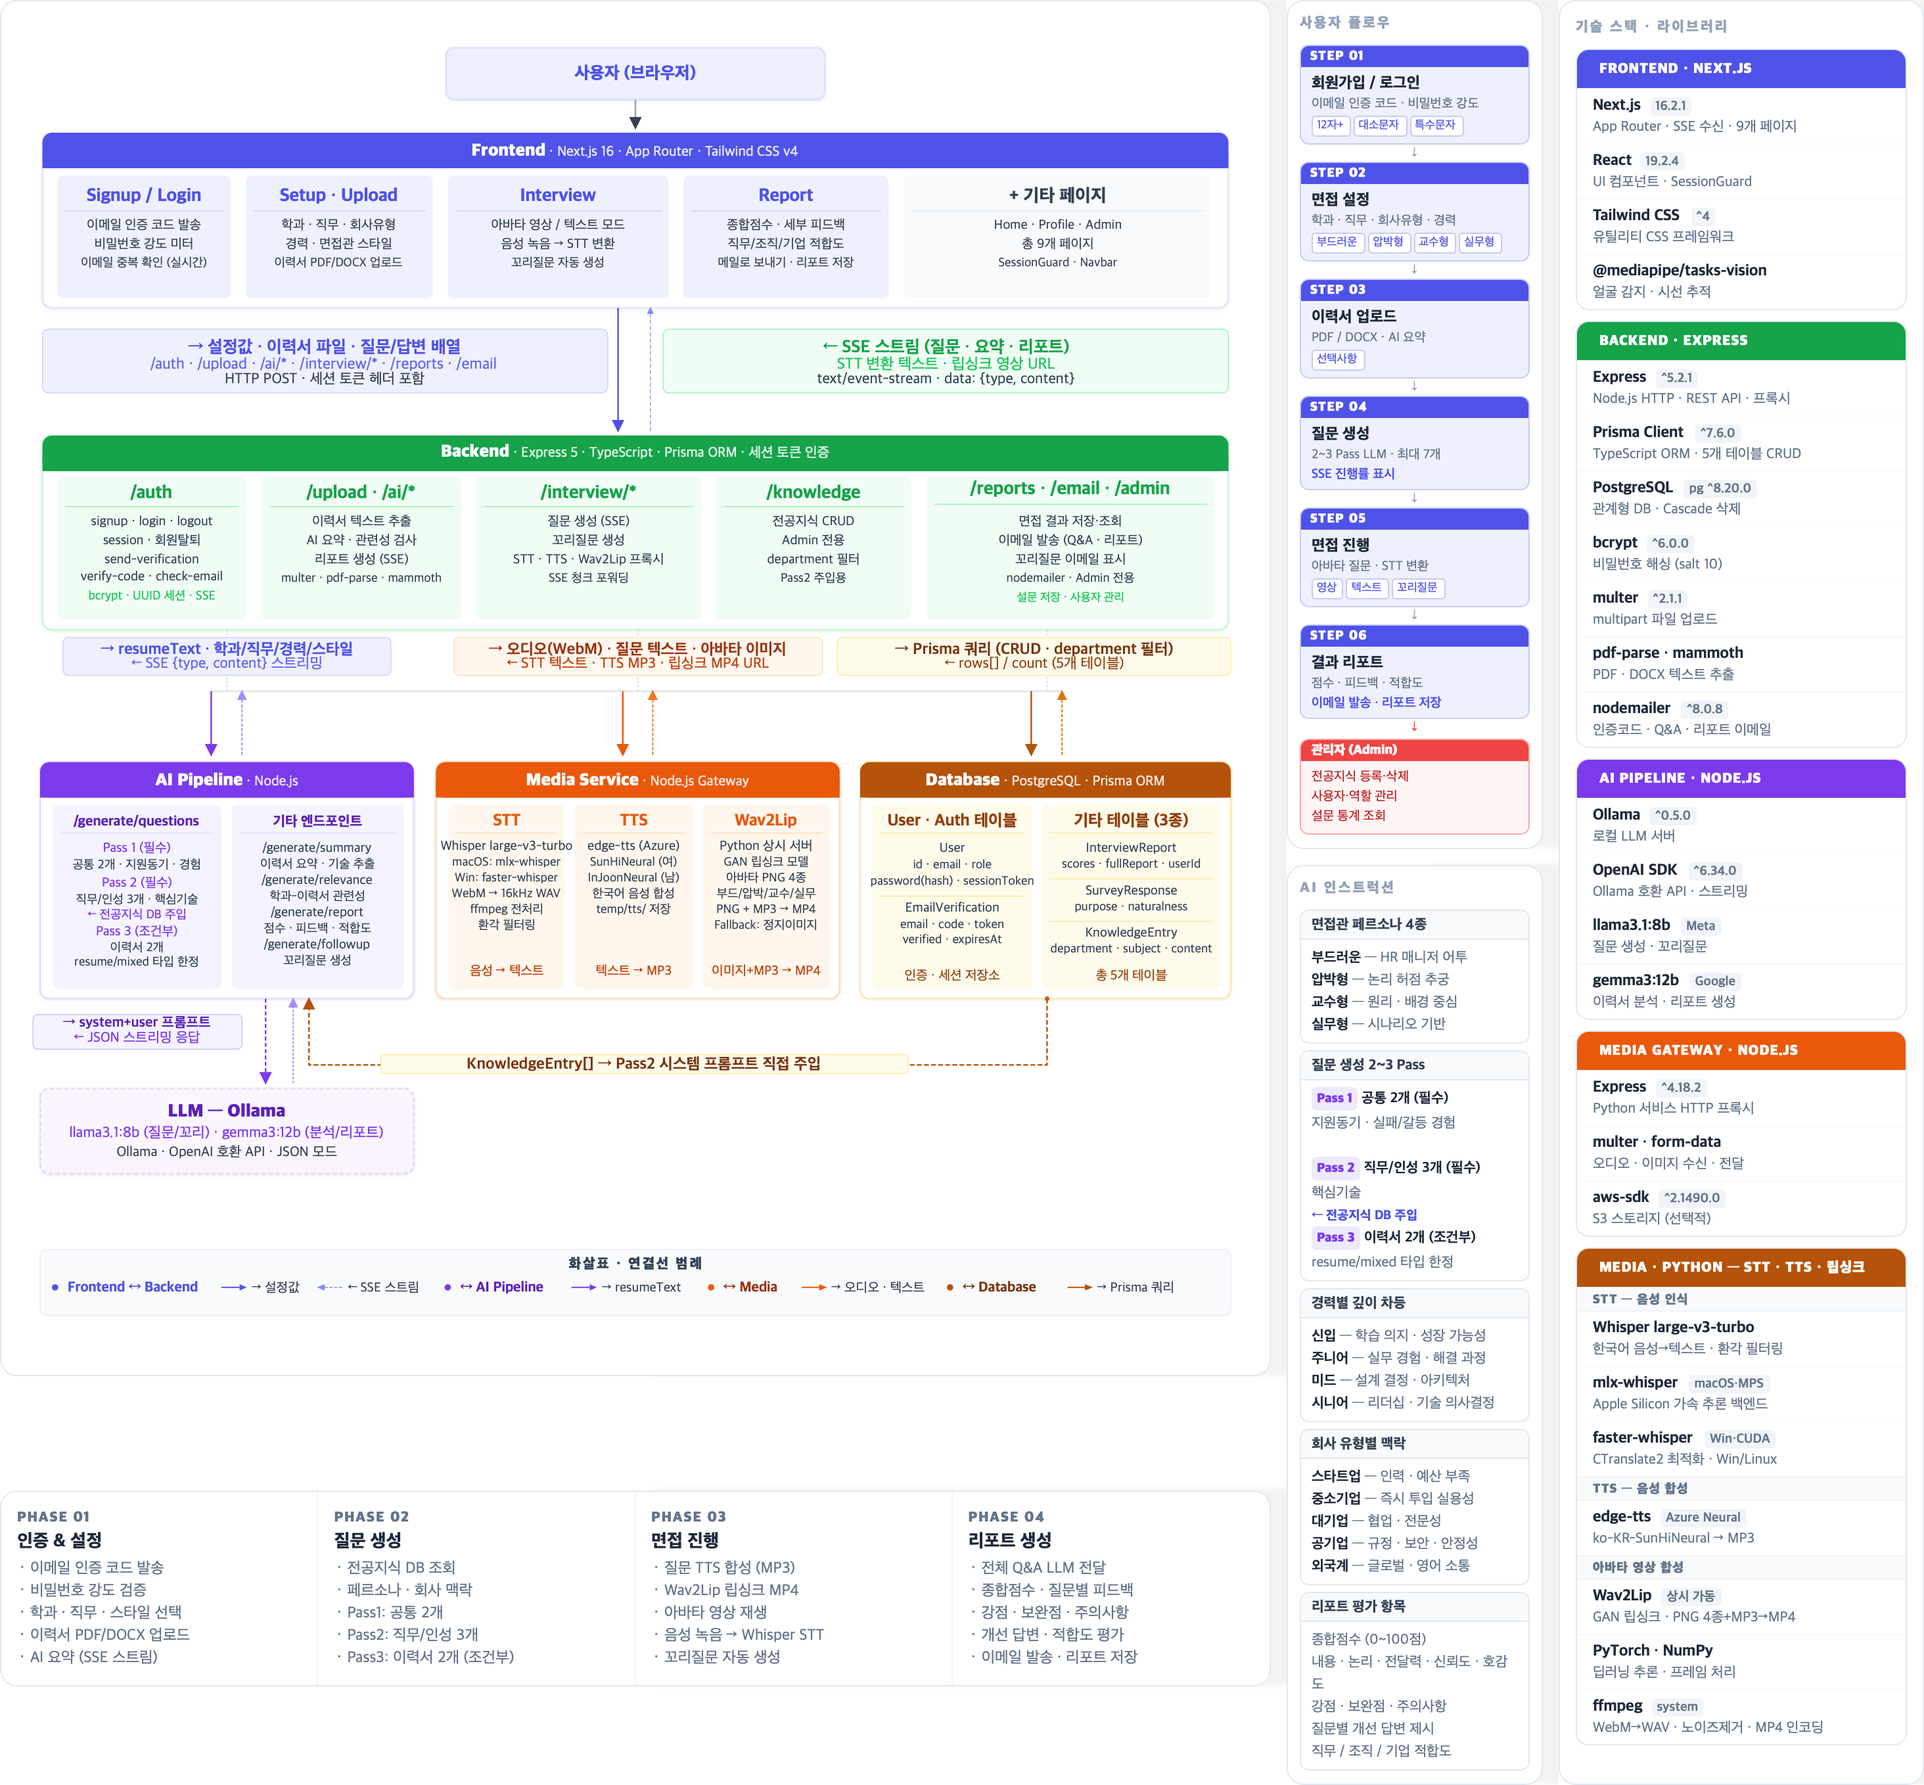
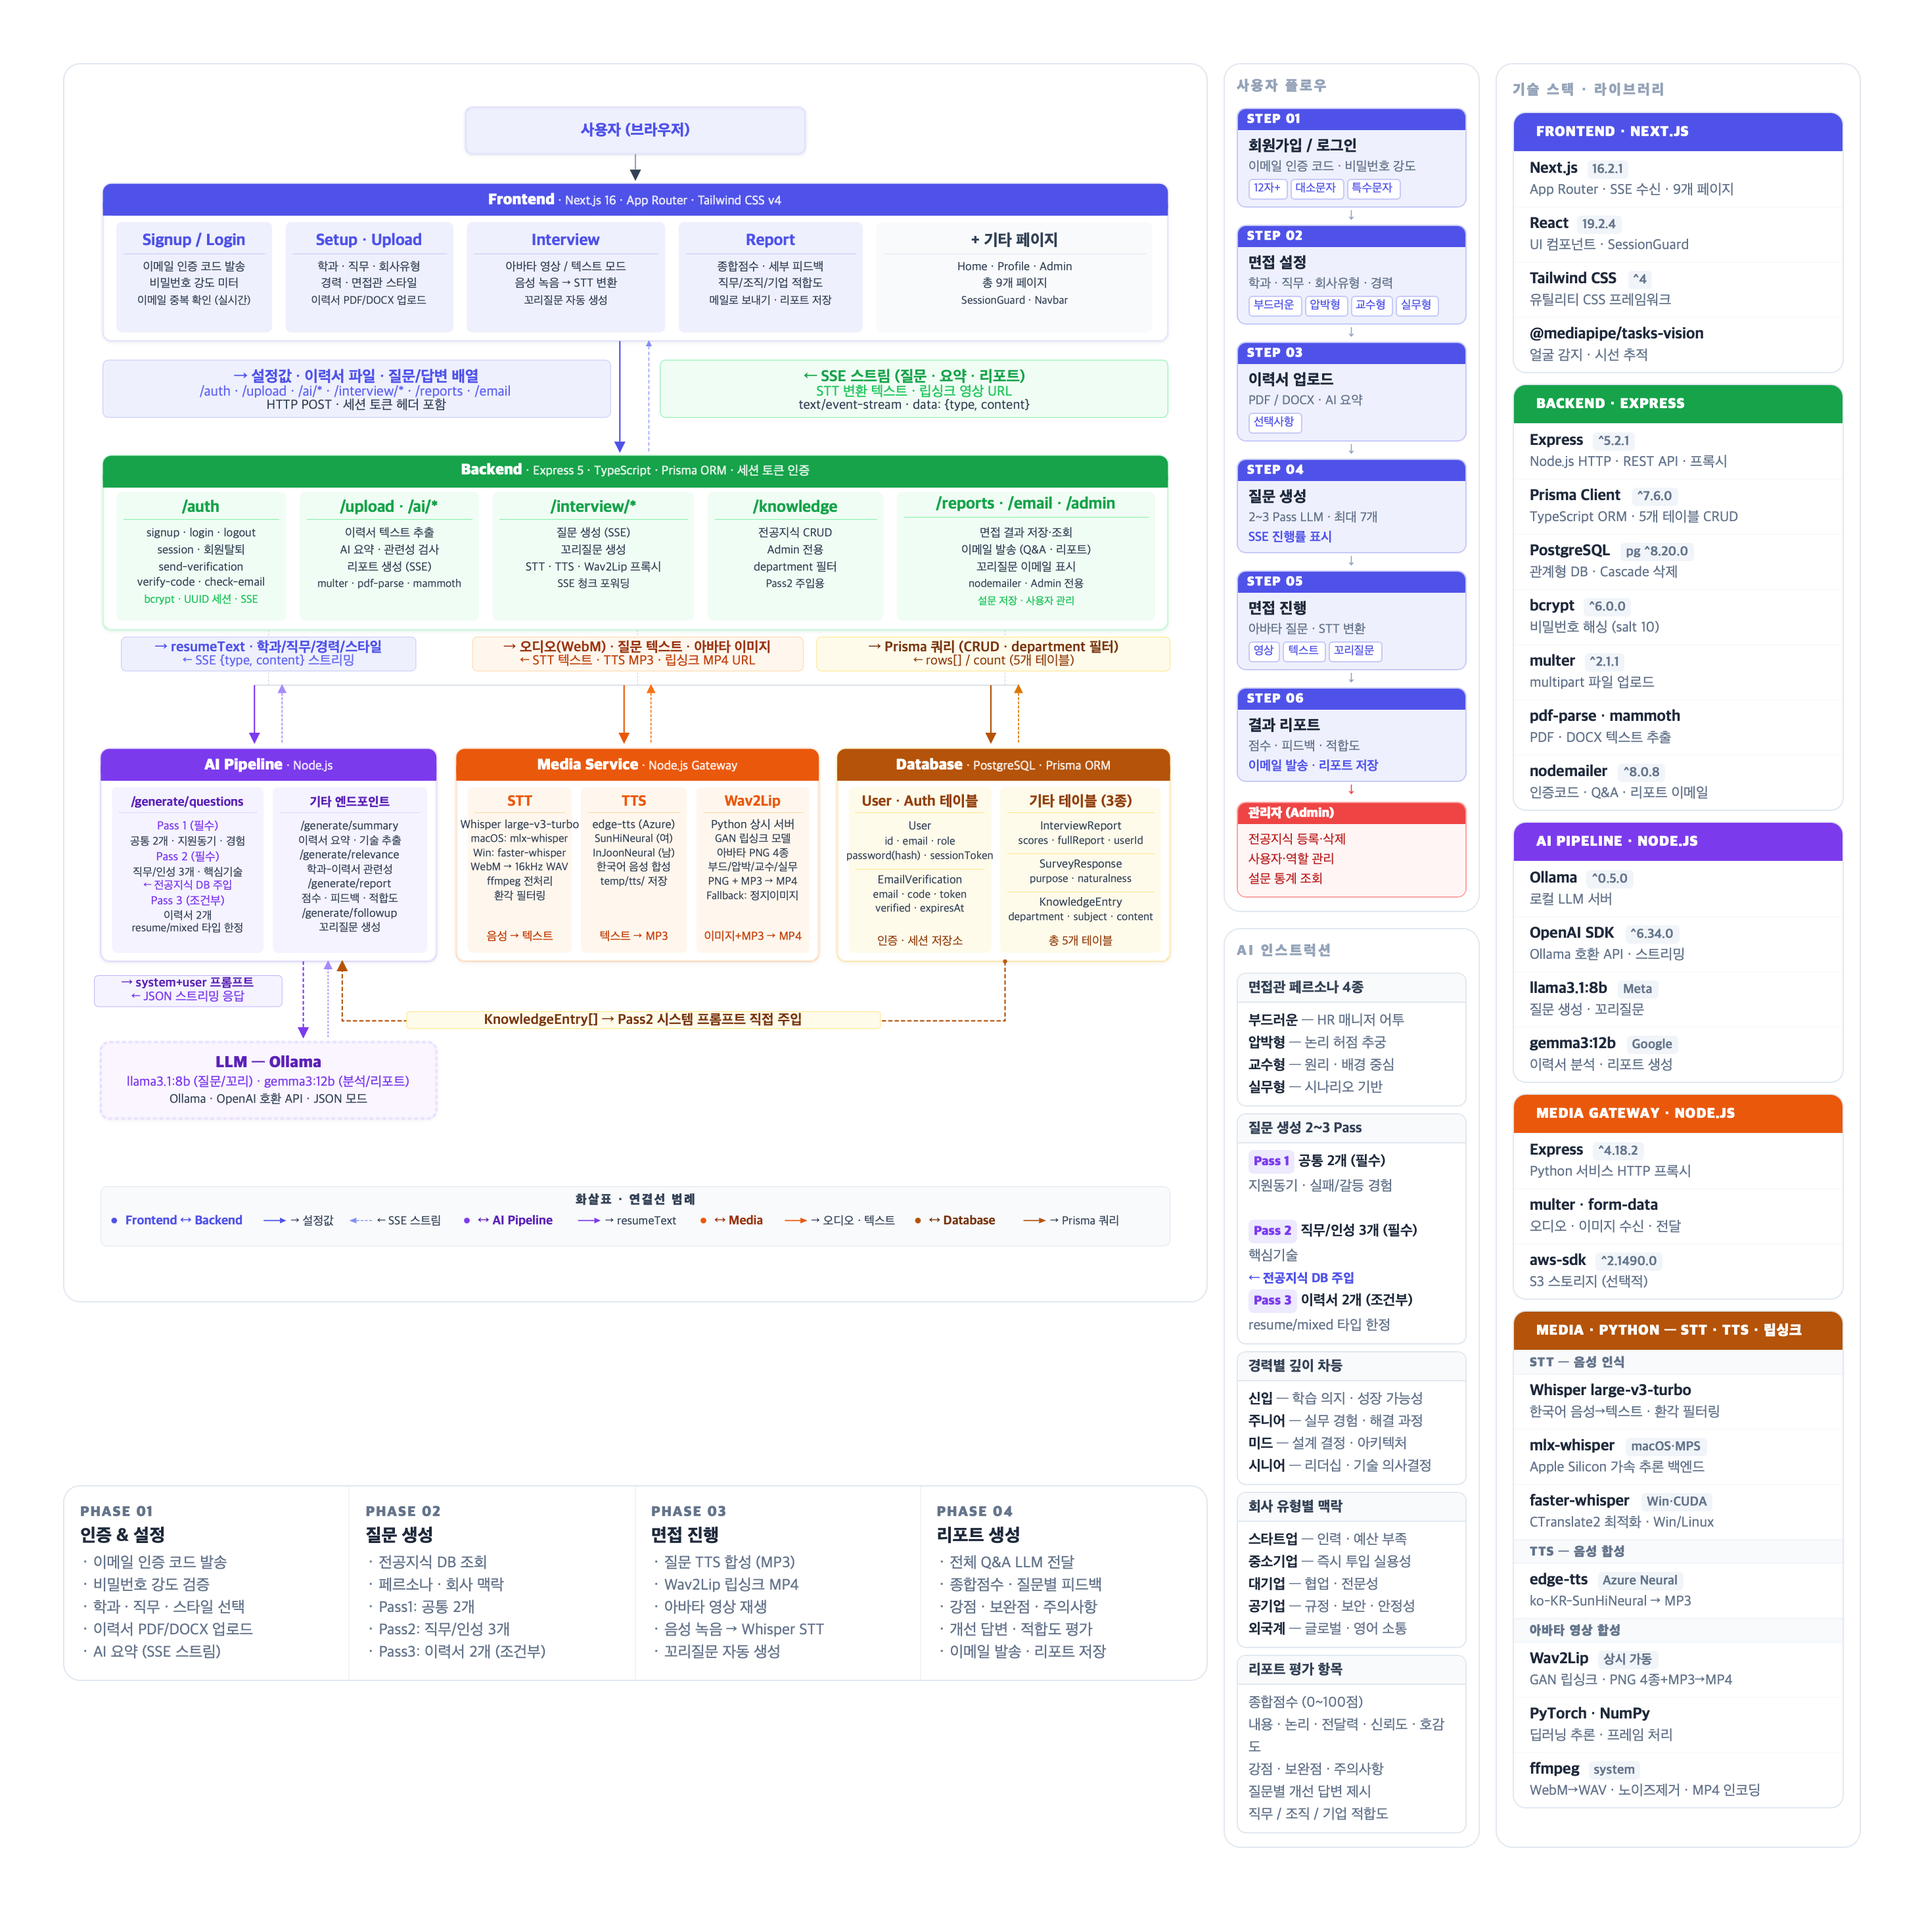
feat: 다크모드 시스템 구성도 추가 및 README picture 태그 적용
- system-diagram-dark.png 추가 (GitHub 다크 팔레트 #0d1117)
- README 이미지를 <picture> 태그로 변경해 다크/라이트 모드 자동 분기
- .gitignore에 system-diagram-dark.html, !docs/system-diagram-dark.png 추가

diff --git a/README.md b/README.md
@@ -8,7 +8,11 @@
 
 ## 시스템 구성도
 
-![시스템 구성도](docs/system-diagram.png)
+<picture>
+  <source media="(prefers-color-scheme: dark)" srcset="docs/system-diagram-dark.png">
+  <source media="(prefers-color-scheme: light)" srcset="docs/system-diagram.png">
+  <img alt="시스템 구성도" src="docs/system-diagram.png">
+</picture>
 
 ---
 
